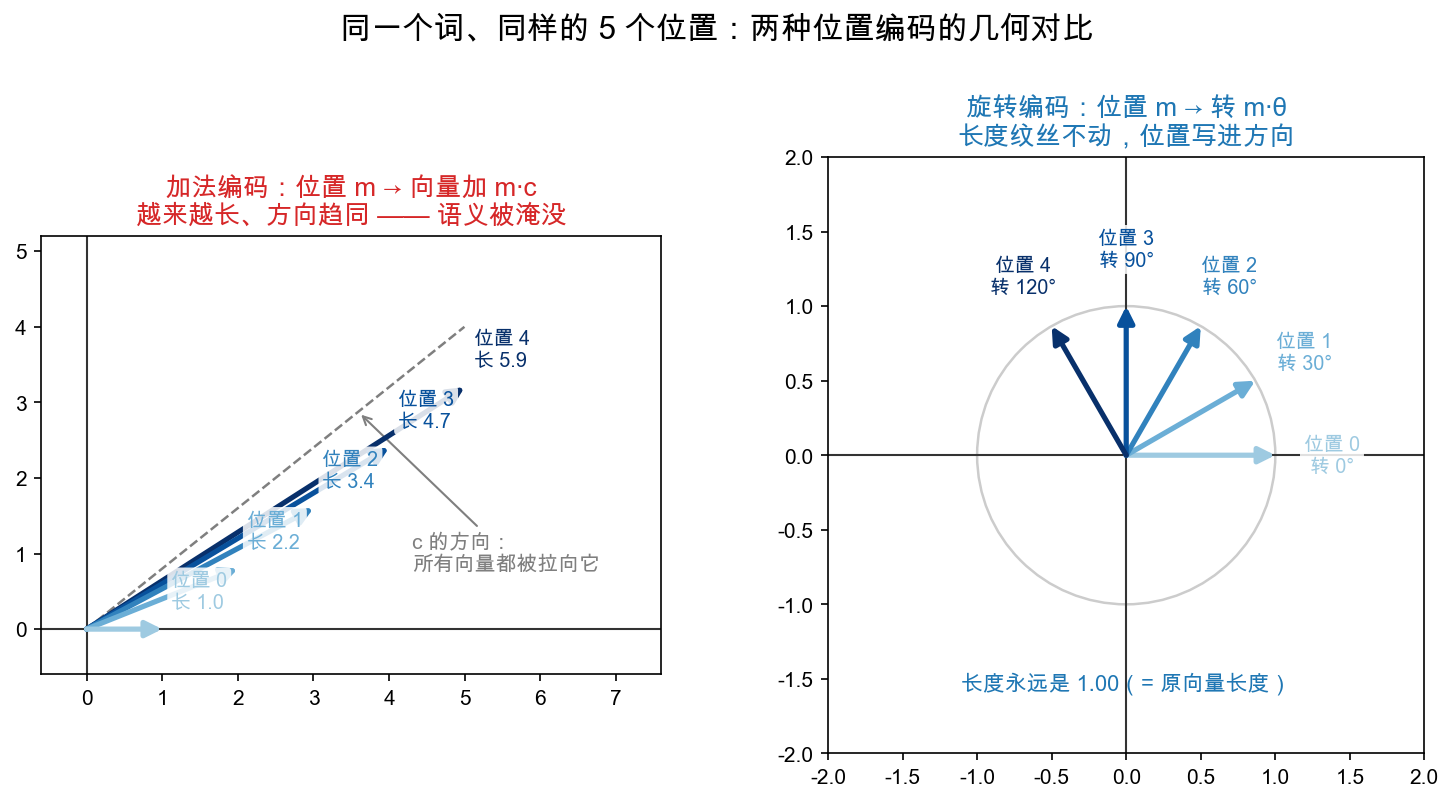
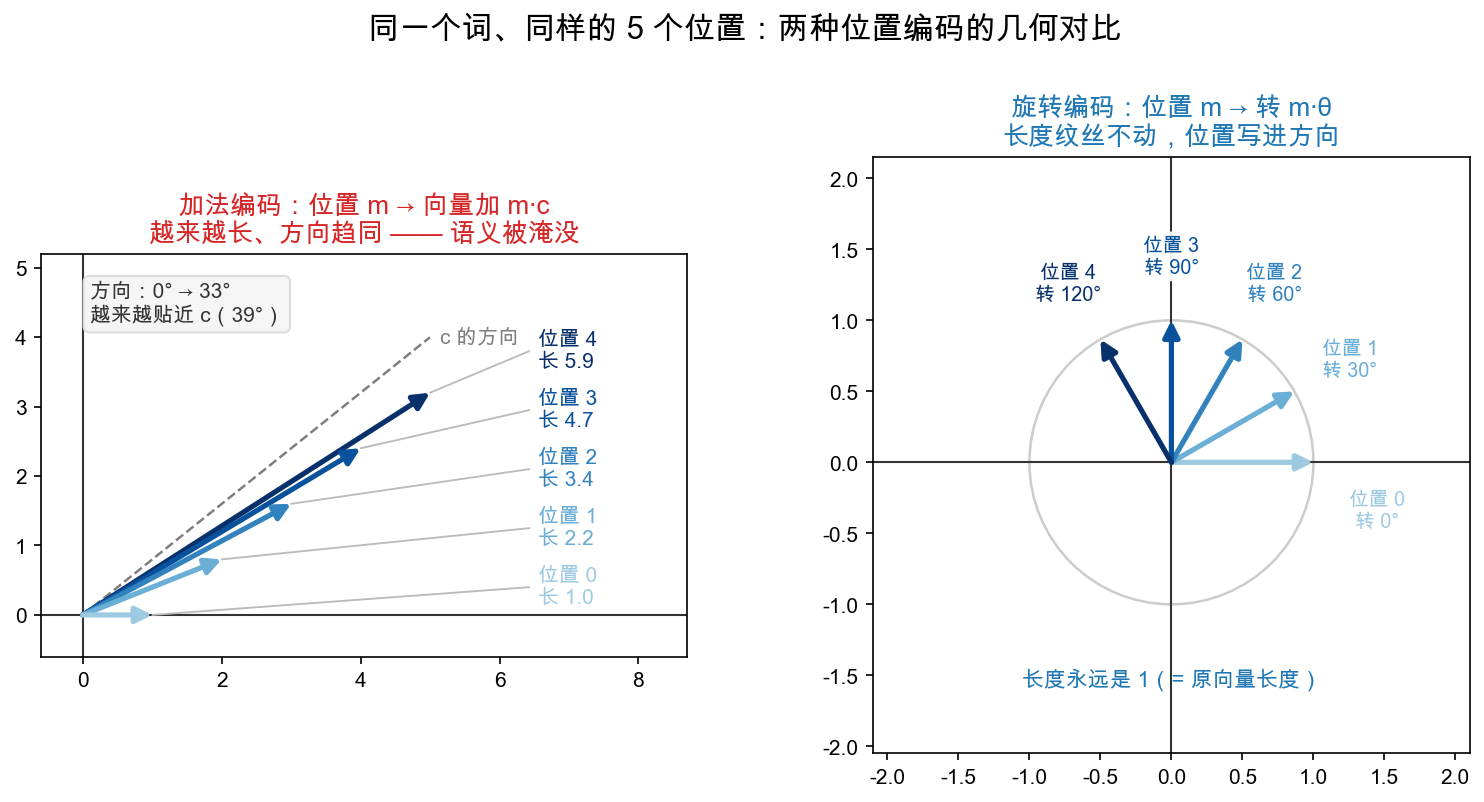
新增 W3D6 图示：展示相对位置对旋转关系的影响，强调两个词之间的旋转关系仅与相对位置有关，更新学习指南以包含新图示，阐述绝对位置与相对位置的区别。

diff --git a/figures/gen_w3d6_add_vs_rotate.py b/figures/gen_w3d6_add_vs_rotate.py
@@ -5,6 +5,8 @@
    旋转长度不变，位置写进方向。
 2. w3d6_dot_compare.png —— 点积对比：加法编码下"同样相邻"的词对得分差约 800 倍；
    旋转编码下完全相同。
+
+排版原则：标签一律避开箭头、坐标轴、虚线（左侧用引线指到空旷区，右侧沿径向放在圆外）。
 """
 import sys, pathlib
 
@@ -14,12 +16,12 @@ import numpy as np
 
 from figures._common import C_BLUE, C_GRAY, C_RED, save
 
-# 同一个词向量、同一组位置，两种编码方案
 v = np.array([1.0, 0.0])          # 词向量（语义）
 c = np.array([1.0, 0.8])          # 加法方案：每个位置要加的"大数"方向
 theta = 30.0                      # 旋转方案：每个位置转 30°
 M = 5                             # 位置 0..4
 colors = ["#9ecae1", "#6baed6", "#3182bd", "#08519c", "#08306b"]
+LABEL_BOX = dict(boxstyle="round,pad=0.22", fc="white", ec="none", alpha=0.92)
 
 
 def rotate(vec, deg):
@@ -28,55 +30,71 @@ def rotate(vec, deg):
     return R @ vec
 
 
-def arrow(ax, tip, color, lw=2.5):
+def arrow(ax, tip, color, lw=2.5, dashed=False):
     ax.annotate("", xy=tip, xytext=(0, 0),
                 arrowprops=dict(arrowstyle="-|>", color=color, lw=lw,
+                                linestyle="--" if dashed else "-",
                                 shrinkA=0, shrinkB=0, mutation_scale=16))
 
 
 # ============ 图 1：几何对比 ============
-fig, (ax1, ax2) = plt.subplots(1, 2, figsize=(12, 5.6))
+fig, (ax1, ax2) = plt.subplots(1, 2, figsize=(12.5, 5.6))
 
-# 左：加法编码 —— v + m·c
+# ---- 左：加法编码 —— v + m·c ----
 ax1.set_aspect("equal", adjustable="box")
 ax1.axhline(0, color="#333333", lw=1)
 ax1.axvline(0, color="#333333", lw=1)
 # c 的方向（所有向量的"吸引子"）
 cu = c / np.linalg.norm(c)
 ax1.plot([0, cu[0] * 6.4], [0, cu[1] * 6.4], ls="--", color=C_GRAY, lw=1.2)
-ax1.annotate("c 的方向：\n所有向量都被拉向它", xy=(cu[0] * 4.6, cu[1] * 4.6),
-             xytext=(4.3, 1.0), color=C_GRAY, fontsize=10, ha="left", va="center",
-             arrowprops=dict(arrowstyle="->", color=C_GRAY, lw=1.0))
-# 先画长的、后画短的：加法方案里各向量几乎共线，短的压在最上面才都看得见
+ax1.text(cu[0] * 6.4 + 0.15, cu[1] * 6.4, "c 的方向", color=C_GRAY,
+         fontsize=10, ha="left", va="center")
+
+# 先画长的、后画短的：各向量几乎共线，短的压在最上面才都看得见
 for m in reversed(range(M)):
-    enc = v + m * c
-    arrow(ax1, enc, colors[m])
-    ax1.text(enc[0] + 0.12, enc[1] + 0.22, f"位置 {m}\n长 {np.linalg.norm(enc):.1f}",
-             color=colors[m], fontsize=9.5, ha="left", va="bottom",
-             bbox=dict(boxstyle="round,pad=0.2", fc="white", ec="none", alpha=0.85),
-             zorder=6)
-ax1.set_xlim(-0.6, 7.6)
+    arrow(ax1, v + m * c, colors[m])
+
+# 标签统一放右侧空旷区，用细灰引线指到各自箭尖 —— 箭头之间缝隙太窄，
+# 直接贴箭头放字必然互相遮挡
+for m in range(M):
+    tip = v + m * c
+    ly = 0.4 + 0.85 * m
+    lx = 6.55
+    ax1.annotate("", xy=tip, xytext=(lx - 0.12, ly),
+                 arrowprops=dict(arrowstyle="-", color="#bbbbbb", lw=0.9,
+                                 shrinkA=0, shrinkB=0))
+    ax1.text(lx, ly, f"位置 {m}\n长 {np.linalg.norm(tip):.1f}",
+             color=colors[m], fontsize=10, ha="left", va="center", zorder=6,
+             bbox=LABEL_BOX)
+
+ax1.text(0.1, 4.8, "方向：0° → 33°\n越来越贴近 c（39°）",
+         fontsize=10, ha="left", va="top", color="#333333",
+         bbox=dict(boxstyle="round,pad=0.3", fc="#f5f5f5", ec="#dddddd"))
+ax1.set_xlim(-0.6, 8.7)
 ax1.set_ylim(-0.6, 5.2)
 ax1.set_title("加法编码：位置 m → 向量加 m·c\n越来越长、方向趋同 —— 语义被淹没",
               fontsize=12.5, color=C_RED)
 
-# 右：旋转编码 —— 转 m·θ
+# ---- 右：旋转编码 —— 转 m·θ ----
 ax2.set_aspect("equal", adjustable="box")
 ax2.axhline(0, color="#333333", lw=1)
 ax2.axvline(0, color="#333333", lw=1)
-r = np.linalg.norm(v)
-ax2.add_patch(plt.Circle((0, 0), r, fill=False, color="#cccccc", lw=1.2))
+ax2.add_patch(plt.Circle((0, 0), 1, fill=False, color="#cccccc", lw=1.2))
 for m in range(M):
     enc = rotate(v, m * theta)
     arrow(ax2, enc, colors[m])
-    ax2.text(enc[0] * 1.38, enc[1] * 1.38, f"位置 {m}\n转 {m * theta:.0f}°",
-             color=colors[m], fontsize=9.5, ha="center", va="center",
-             bbox=dict(boxstyle="round,pad=0.2", fc="white", ec="none", alpha=0.85),
-             zorder=6)
-ax2.text(0, -r * 1.45, f"长度永远是 {r:.2f}（= 原向量长度）", color=C_BLUE,
+    if m == 0:
+        # 位置 0 的箭头躺在 x 轴上，标签挪到轴下方，避免压住轴线
+        ax2.text(1.45, -0.34, "位置 0\n转 0°", color=colors[m], fontsize=9.5,
+                 ha="center", va="center", zorder=6, bbox=LABEL_BOX)
+    else:
+        ax2.text(enc[0] * 1.45, enc[1] * 1.45, f"位置 {m}\n转 {m * theta:.0f}°",
+                 color=colors[m], fontsize=9.5, ha="center", va="center",
+                 zorder=6, bbox=LABEL_BOX)
+ax2.text(0, -1.45, "长度永远是 1（= 原向量长度）", color=C_BLUE,
          fontsize=10.5, ha="center", va="top")
-ax2.set_xlim(-2.0, 2.0)
-ax2.set_ylim(-2.0, 2.0)
+ax2.set_xlim(-2.1, 2.1)
+ax2.set_ylim(-2.05, 2.15)
 ax2.set_title("旋转编码：位置 m → 转 m·θ\n长度纹丝不动，位置写进方向",
               fontsize=12.5, color=C_BLUE)
 

diff --git a/figures/gen_w3d6_relative_rotation.py b/figures/gen_w3d6_relative_rotation.py
@@ -1,0 +1,101 @@
+"""W3D6 彩蛋图：为什么"旋转关系"只与相对位置 (m-n) 有关？
+
+两对词：位置 (3, 5) 和位置 (100, 102) —— 绝对位置天差地别，相对位置都差 2，
+所以夹角都是 2θ（θ=30°）。右边一对各自被转了 8 圈多，但"差"纹丝不动。
+
+排版原则：所有标签避开箭头、坐标轴和圆弧 —— 夹角用楔形内部的小字 "2θ"，
+"原始方向"挪到 x 轴下方，大标签统一放在箭头尖之外的空白处。
+"""
+import sys, pathlib
+
+sys.path.insert(0, str(pathlib.Path(__file__).resolve().parents[1]))
+import matplotlib.pyplot as plt
+import numpy as np
+
+from figures._common import C_BLUE, C_ORANGE, C_GRAY, save
+
+THETA = 30.0  # 每个位置转 30°
+LABEL_BOX = dict(boxstyle="round,pad=0.22", fc="white", ec="none", alpha=0.92)
+
+
+def arrow(ax, deg, color, lw=2.5, dashed=False):
+    t = np.radians(deg)
+    ax.annotate("", xy=(np.cos(t), np.sin(t)), xytext=(0, 0),
+                arrowprops=dict(arrowstyle="-|>", color=color, lw=lw,
+                                linestyle="--" if dashed else "-",
+                                shrinkA=0, shrinkB=0, mutation_scale=16))
+
+
+def arc(ax, deg1, deg2, r, color="#333333"):
+    """画一段从 deg1 到 deg2 的圆弧，末端带小箭头，表示"转过去"。"""
+    ts = np.linspace(np.radians(deg1), np.radians(deg2), 60)
+    ax.plot(r * np.cos(ts), r * np.sin(ts), color=color, lw=1.8, zorder=5)
+    # 用弧末端的一小段弦当箭头
+    t_end, t_pre = ts[-1], ts[-3]
+    ax.annotate("", xy=(r * np.cos(t_end), r * np.sin(t_end)),
+                xytext=(r * np.cos(t_pre), r * np.sin(t_pre)),
+                arrowprops=dict(arrowstyle="-|>", color=color, lw=1.8,
+                                shrinkA=0, shrinkB=0, mutation_scale=14))
+
+
+def draw_panel(ax, pos_b, pos_a, b_label_xy, a_label_xy, bottom_note):
+    """画一对词：词 B 在位置 pos_b，词 A 在位置 pos_a（pos_a = pos_b + 2）。
+
+    b_label_xy / a_label_xy：两个词标签的中心坐标（调用方保证放在空白处）。
+    """
+    ax.set_aspect("equal", adjustable="box")
+    ax.axhline(0, color="#333333", lw=1)
+    ax.axvline(0, color="#333333", lw=1)
+    ax.add_patch(plt.Circle((0, 0), 1, fill=False, color="#dddddd", lw=1.2))
+
+    deg_b = (pos_b * THETA) % 360
+    deg_a = (pos_a * THETA) % 360
+
+    # 原始方向（没加位置信息时的样子）；标签放 x 轴下方，避免压线
+    arrow(ax, 0, C_GRAY, lw=1.5, dashed=True)
+    ax.text(1.15, -0.25, "原始方向", color=C_GRAY, fontsize=9.5,
+            ha="center", va="center", zorder=6, bbox=LABEL_BOX)
+
+    # 两个词（位置大了会转很多整圈，标注 ≡ 折回 0~360° 后的实际朝向）
+    arrow(ax, deg_b, C_BLUE)
+    arrow(ax, deg_a, C_ORANGE)
+    fold_b = f"\n{pos_b}θ = {pos_b * THETA:.0f}°" + (f" ≡ {deg_b:.0f}°" if pos_b * THETA >= 360 else "")
+    fold_a = f"\n{pos_a}θ = {pos_a * THETA:.0f}°" + (f" ≡ {deg_a:.0f}°" if pos_a * THETA >= 360 else "")
+    ax.text(*b_label_xy, f"词 B · 位置 {pos_b}{fold_b}", color=C_BLUE,
+            fontsize=9.5, ha="center", va="center", zorder=6, bbox=LABEL_BOX)
+    ax.text(*a_label_xy, f"词 A · 位置 {pos_a}{fold_a}", color=C_ORANGE,
+            fontsize=9.5, ha="center", va="center", zorder=6, bbox=LABEL_BOX)
+
+    # 夹角弧 + 楔形内部小字（弧和箭头都不压）
+    arc(ax, deg_b, deg_a, r=0.55)
+    mid = np.radians((deg_b + deg_a) / 2)
+    ax.text(0.85 * np.cos(mid), 0.85 * np.sin(mid), "2θ", color="#333333",
+            fontsize=11, ha="center", va="center", zorder=6, bbox=LABEL_BOX)
+
+    ax.text(0, -0.6, bottom_note, fontsize=10.5, ha="center", va="top",
+            color="#333333",
+            bbox=dict(boxstyle="round,pad=0.3", fc="#f5f5f5", ec="#dddddd"))
+    ax.set_xlim(-2.35, 2.1)
+    ax.set_ylim(-1.35, 2.0)
+
+
+fig, (ax1, ax2) = plt.subplots(1, 2, figsize=(12.5, 5.8))
+
+draw_panel(ax1, 3, 5,
+           b_label_xy=(0, 1.55),
+           a_label_xy=(-1.42, 0.82),
+           bottom_note="从 B 到 A：反着转 3θ（撤销 B）\n再正着转 5θ（施加 A）→ 净转 2θ")
+ax1.set_title("位置 (3, 5)：夹角 = (5−3)θ = 2θ", fontsize=12.5)
+
+draw_panel(ax2, 100, 102,
+           b_label_xy=(-1.12, 1.32),
+           a_label_xy=(-1.12, -0.28),
+           bottom_note="从 B 到 A：反着转 100θ（撤销 B）\n再正着转 102θ（施加 A）→ 净转还是 2θ")
+ax2.set_title("位置 (100, 102)：各自转了 8 圈多，\n夹角 = (102−100)θ = 2θ",
+              fontsize=12.5)
+
+fig.suptitle("绝对位置天差地别，相对位置相同 → 夹角完全相同\n"
+             "两个词的「旋转关系」只认差 (m−n)，不认各自在哪",
+             fontsize=14.5, y=1.0)
+fig.subplots_adjust(top=0.76, wspace=0.3)
+save(fig, "w3d6_relative_rotation.png")

diff --git a/scripts/verify_latex.py b/scripts/verify_latex.py
@@ -64,6 +64,21 @@ def check_file(path: pathlib.Path) -> list:
     if re.search(r"[┌┐└┘│]", prose):
         problems.append("  残留制表符矩阵边框（┌┐└┘│）")
 
+    # 单反斜杠 + ASCII 标点（\; \, \: \| \{ \} \! \~）：mdBook 的 Markdown 解析器
+    # 会把它们当转义符吃掉标点前的反斜杠，MathJax 收到的公式已被破坏
+    # （\| → | 范数变单竖线；\, → , 冒出多余逗号；\{ → { 集合括号消失）。
+    # 安全写法：\, \; → "\ "（反斜杠空格）；\| → \Vert；\{ \} → \lbrace \rbrace。
+    eaten = sorted(set(re.findall(r"(?<!\\)\\[;,:|{}!~]", prose)))
+    if eaten:
+        problems.append(
+            f"  会被 Markdown 吃掉反斜杠的写法：{' '.join(eaten)}"
+            "（间距请用 \\ ，范数请用 \\Vert，集合括号请用 \\lbrace \\rbrace）")
+
+    # }_{ ：下划线紧跟在标点 } 后面会被 Markdown 当成强调（渲染出 <em>），
+    # 必须转义成 }\_{。
+    if "}_{" in prose:
+        problems.append("  出现 }_{：会被 Markdown 当成下划线强调，请写 }\\_{")
+
     # Unicode 数学字符残留
     leftover = sorted({c for c in prose if c in BANNED})
     if leftover:

diff --git a/learning-guide/week3/06-Day6-彩蛋-RoPE预告-旋转矩阵与位置.md b/learning-guide/week3/06-Day6-彩蛋-RoPE预告-旋转矩阵与位置.md
@@ -68,7 +68,7 @@ $$
 **致命伤二：点积被"绝对位置"绑架。** 回忆一下，attention 打分靠的是**点积**。我们来算一笔账（把词向量简化成数字 $1$，$c$ 简化成 $10$）：位置 $(3,4)$ 这对词，点积 $= 31 \times 41 = 1271$；位置 $(100,101)$ 这对词，点积 $= 1001 \times 1011 = 1{,}012{,}011$。两对词都是"相邻"、相对位置完全相同，得分却差了将近 **800 倍**！代数上展开就看得一清二楚：
 
 $$
-(v+mc)\cdot(w+nc) = \underbrace{v\cdot w}_{\text{语义}} \;+\; \underbrace{n\,(v\cdot c) + m\,(w\cdot c)}_{\text{位置}\times\text{语义，搅在一起}} \;+\; \underbrace{mn\,\|c\|^2}_{\text{绝对位置，爆炸项}}
+(v+mc)\cdot(w+nc) = \underbrace{v\cdot w}\_{\text{语义}} + \underbrace{n(v\cdot c) + m(w\cdot c)}\_{\text{位置}\times\text{语义，搅在一起}} + \underbrace{mn\Vert c\Vert^2}\_{\text{绝对位置，爆炸项}}
 $$
 
 最后一项随 $m \times n$ **平方级膨胀**；中间两项把位置和语义搅成一锅粥。模型看到一个巨大的分数，根本分不清是"这两个词语义相关"，还是"它俩只是排在很后面"。
@@ -101,11 +101,18 @@ $$
 
 即：**"先反着转 $n\theta$ 度，再正着转 $m\theta$ 度"，总效果 = 转 $(m-n)\theta$ 度。**
 
-这个等式为什么重要？因为它意味着——**两个词之间的"旋转关系"，只和它们的相对位置 $(m-n)$ 有关，和绝对位置无关。**
+可是等等——什么时候会需要"先反着转、再正着转"这种操作？答案：**比较两个词的时候**。
 
-- 第 5 个词和第 3 个词，相对位置差 2；
-- 第 100 个词和第 98 个词，相对位置也差 2；
-- 这两对词的"旋转差"完全相同，都是转 $2\theta$ 度。
+想象词 B 在位置 $n$（向量被转了 $n\theta$），词 A 在位置 $m$（向量被转了 $m\theta$）。想知道"A 相对 B 差多少"，最自然的动作是：**站在 B 的朝向上，先把 B 的旋转"撤销"（反着转 $n\theta$，回到原始朝向），再"施加"A 的旋转（正着转 $m\theta$）**。这一"撤销 + 施加"的总效果，就是"从 B 的朝向转到 A 的朝向"要转的角度——这就是两个词之间的**旋转关系**，说白了，就是**两个向量的夹角**。
+
+关键在公式右边：结果里只有 $m-n$，**没有单独的 $m$，也没有单独的 $n$**。看下图体会：
+
+![两对绝对位置不同、相对位置相同的词，夹角完全相同](../../figures/out/w3d6_relative_rotation.png)
+
+- 左边一对：位置 3 和位置 5，夹角 $2\theta$；
+- 右边一对：位置 100 和位置 102——各自都被转了整整 8 圈多（$100\theta = 3000^\circ$！），但定格之后，**夹角还是 $2\theta$**。
+
+所以这个等式的分量在于：**两个词之间的"旋转关系"，只和它们的相对位置 $(m-n)$ 有关，和绝对位置无关。** 这样的例子能举无数个——位置 7 和 3、位置 9 和 5……只要位置差相同，夹角就分毫不差。
 
 > 📌 **划重点：** RoPE 选"旋转"作为编码方式，就是为了买到这个性质——**两个位置间的信息，只依赖"差多少位"，而不是"各自在哪"**。这恰好符合语言的直觉：我们关心的是"吃"比"苹果"靠前多少，而不是它俩绝对是不是第 100 号和第 101 号词。
 

diff --git a/learning-guide/week5/01-Day1-点积-一个数度量两个方向的关系.md b/learning-guide/week5/01-Day1-点积-一个数度量两个方向的关系.md
@@ -102,14 +102,14 @@ $$u \cdot v = (-1) \times 1 = -1 = -(|u| \times |v|)$$
 
 你可能隐约听过渡口：点积还有个公式 `u · v = |u||v|cosθ`。这里 $\theta$ 是两向量夹角，`cos` 是余弦（cosine）——**别慌，这门课 Week 3 已经教过 sin/cos 了**，忘了就回去翻 Day 1 的"单位圆定义"。现在我们只需要 cos 的一点点性质：
 
-- $\theta = 0^\circ$（同向）：$\cos 0^\circ = 1 \to$ 点积 = $|u|\,|v|$（正好对上特例①）；
+- $\theta = 0^\circ$（同向）：$\cos 0^\circ = 1 \to$ 点积 = $|u|\ |v|$（正好对上特例①）；
 - $\theta = 90^\circ$（垂直）：$\cos 90^\circ = 0 \to$ 点积 = 0（对上特例②）；
-- $\theta = 180^\circ$（反向）：$\cos 180^\circ = -1 \to$ 点积 = $-|u|\,|v|$（对上特例③）。
+- $\theta = 180^\circ$（反向）：$\cos 180^\circ = -1 \to$ 点积 = $-|u|\ |v|$（对上特例③）。
 
 看出来了吗？`|u|·|v|·cosθ` 里的 `cosθ`，干的正是"影子有多长"这件事——`|u|·cosθ` 就是影子长度（u 的长度乘以"契合度"）。所以两个公式**是一回事**：
 
 $$\begin{aligned}
-u \cdot v &= \sum_i u[i]\,v[i] \quad (\text{怎么按：机器算法}) \\\\
+u \cdot v &= \sum_i u[i]\ v[i] \quad (\text{怎么按：机器算法}) \\\\
          &= |u| \cdot |v| \cdot \cos\theta \quad (\text{量什么：几何本质})
 \end{aligned}$$
 
@@ -180,7 +180,7 @@ pytest tests -k w5 -q
 
 - ✅ 点积的**算法**：对应相乘再相加，`u · v = Σ u[i]·v[i]`；一行 `sum(a*b for a,b in zip(u,v))` 搞定。
 - ✅ 点积的**意义**：`|u|·|v|·cosθ` = u 在 v 上的影子长 $\times$ v 的长度。影子越长越亲。
-- ✅ 三个极值：同向最大（$=|u|\,|v|$），**垂直为 0（正交）**，反向最小（$=-|u|\,|v|$）。
+- ✅ 三个极值：同向最大（$=|u|\ |v|$），**垂直为 0（正交）**，反向最小（$=-|u|\ |v|$）。
 - ✅ 点积是"行为良好"的运算：可交换、对加法分配、数乘可提出。
 
 ---

diff --git a/learning-guide/week5/02-Day2-长度夹角与投影.md b/learning-guide/week5/02-Day2-长度夹角与投影.md
@@ -194,12 +194,12 @@ pytest tests -k w5 -q
 
 | 函数 | 公式 | 输出 | 一句话 |
 |---|---|---|---|
-| `dot(u, v)` | $\sum_i u[i]\,v[i]$ | 数 | 亲密度（原始分） |
+| `dot(u, v)` | $\sum_i u[i]\ v[i]$ | 数 | 亲密度（原始分） |
 | `norm(u)` | $\sqrt{u \cdot u}$ | 数 | 长度（勾股推广） |
-| `project_scalar(u, v)` | $\frac{u \cdot v}{\|v\|}$ | 数 | 影子长（带符号） |
-| `project_onto(u, v)` | $\frac{u \cdot v}{v \cdot v}\,v$ | 箭头 | 影子本身 |
-| `is_orthogonal(u, v)` | $\|u \cdot v\| < \mathrm{eps}$ | 布尔 | 垂直吗 |
-| `angle_deg(u, v)` | $\mathrm{degrees}(\arccos(u \cdot v/(\|u\|\,\|v\|)))$ | 角度 | 夹角多少度 |
+| `project_scalar(u, v)` | $\frac{u \cdot v}{\Vert v\Vert}$ | 数 | 影子长（带符号） |
+| `project_onto(u, v)` | $\frac{u \cdot v}{v \cdot v}\ v$ | 箭头 | 影子本身 |
+| `is_orthogonal(u, v)` | $\Vert u \cdot v\Vert < \mathrm{eps}$ | 布尔 | 垂直吗 |
+| `angle_deg(u, v)` | $\mathrm{degrees}(\arccos(u \cdot v/(\Vert u\Vert\ \Vert v\Vert)))$ | 角度 | 夹角多少度 |
 
 看出血脉关系了吗？**`dot` 是老祖宗，其余五个全是它的孩子**。`norm` 是 dot(u,u) 开根号；投影是 dot 除以长度；夹角是 dot 除以两个长度。记住这一条，五个函数不用背，现推就行。
 

diff --git a/learning-guide/week5/README.md b/learning-guide/week5/README.md
@@ -21,7 +21,7 @@
 
 | 章节 | 标题 | 你会得到 |
 |---|---|---|
-| Day 1 | [点积——一个数如何度量两个方向的关系](./01-Day1-点积-一个数度量两个方向的关系.md) | 点积的定义与几何意义：对应相乘相加 = $\|u\|\,\|v\|\cos\theta$；正交（垂直）$\Leftrightarrow$ 点积为 0 |
+| Day 1 | [点积——一个数如何度量两个方向的关系](./01-Day1-点积-一个数度量两个方向的关系.md) | 点积的定义与几何意义：对应相乘相加 = $\Vert u\Vert\ \Vert v\Vert\cos\theta$；正交（垂直）$\Leftrightarrow$ 点积为 0 |
 | Day 2 | [长度、夹角与投影——余弦是"方向契合度"](./02-Day2-长度夹角与投影.md) | 长度（n 维勾股）、投影长度/投影向量、夹角公式；"余弦 = 方向契合度" |
 | Day 3 | [高维空间——公式照搬，直觉还在吗](./03-Day3-高维空间-公式照搬直觉还在吗.md) | 3 维、768 维点积/长度/夹角公式照抄；高维直觉靠"降维到影子"理解 |
 | Day 4 | [代码实战——相似度计算器与最近邻](./04-Day4-代码实战-相似度计算器与最近邻.md) | 余弦相似度 + 在一堆向量里找最近邻；亲手跑绿 `pytest tests -k w5` |

diff --git a/learning-guide/week3/02-Day2-矩阵乘向量-为什么这么算.md b/learning-guide/week3/02-Day2-矩阵乘向量-为什么这么算.md
@@ -93,8 +93,8 @@ $$
 >
 > 看维度就明白了。向量竖着写是 $2\times1$（2 行 1 列），矩阵是 $2\times2$，而乘法有个铁律：**前者的列数必须等于后者的行数**。
 >
-> - $M\cdot v$：$(2\times2)\,(2\times1) \to (2\times1)$ ✅ 中间的 2 对上了，乘出来还是个向量；
-> - $v\cdot M$：$(2\times1)\,(2\times2)$ ❌ 1 对 2，根本乘不了。
+> - $M\cdot v$：$(2\times2)\ (2\times1) \to (2\times1)$ ✅ 中间的 2 对上了，乘出来还是个向量；
+> - $v\cdot M$：$(2\times1)\ (2\times2)$ ❌ 1 对 2，根本乘不了。
 >
 > 语序上也很自然：矩阵是变换（动作），向量是被搬的点（对象），算子写在左边，就像函数记号 $f(x)$——$M\cdot v$ 念作"变换 $M$ 作用于向量 $v$"。而且后面每一周的公式全是这个语序：$Ax=b$、$Ax=\lambda x$、$Wx+b$，矩阵永远在左、向量永远在右。
 

diff --git a/learning-guide/week8/05-Day5-梯度下降-一步一步滑下山.md b/learning-guide/week8/05-Day5-梯度下降-一步一步滑下山.md
@@ -1,7 +1,7 @@
 # Day 5：梯度下降——一步一步滑下山
 
 > 本章你将：
-> 1. 把三天的积累拧成一招：**参数 $\;-=\;$ 学习率 $\times$ 梯度**，让损失真正开始下降；
+> 1. 把三天的积累拧成一招：**参数 $\ -=\ $ 学习率 $\times$ 梯度**，让损失真正开始下降；
 > 2. 理解学习率的含义——"一步迈多大"，并亲眼看到迈太大、迈太小的后果；
 > 3. 从"一次挪一步"（`sgd_step`）到"重复几千步"（`train`），实现训练循环；
 > 4. 跑 `pytest tests -k "training"`，看到损失被一步步压下来。

diff --git a/learning-guide/week2/05-Day5-代码实战-换基器与配方求解.md b/learning-guide/week2/05-Day5-代码实战-换基器与配方求解.md
@@ -27,8 +27,8 @@ def coordinates_in_basis(b1, b2, v):
 
 $$
 \begin{aligned}
-a\,x + b\,y &= e \qquad &&\text{第一个方程，}x\text{ 系数 }a\text{，}y\text{ 系数 }b\text{，常数 }e \\\\
-c\,x + d\,y &= f \qquad &&\text{第二个方程，}x\text{ 系数 }c\text{，}y\text{ 系数 }d\text{，常数 }f
+a\ x + b\ y &= e \qquad &&\text{第一个方程，}x\text{ 系数 }a\text{，}y\text{ 系数 }b\text{，常数 }e \\\\
+c\ x + d\ y &= f \qquad &&\text{第二个方程，}x\text{ 系数 }c\text{，}y\text{ 系数 }d\text{，常数 }f
 \end{aligned}
 $$
 

diff --git a/learning-guide/week5/03-Day3-高维空间-公式照搬直觉还在吗.md b/learning-guide/week5/03-Day3-高维空间-公式照搬直觉还在吗.md
@@ -40,7 +40,7 @@ $$|u| = \sqrt{u_1^2 + u_2^2 + u_3^2}$$
 
 **夹角公式纹丝不动**：
 
-$$\cos\theta = \frac{u \cdot v}{|u|\,|v|}$$
+$$\cos\theta = \frac{u \cdot v}{|u|\ |v|}$$
 
 > 💡 **你可能会问：3 维的"长度=勾股定理"我还能勉强想象（拿两条边先勾一次，再和第三条边勾一次），那 4 维呢？**
 >
